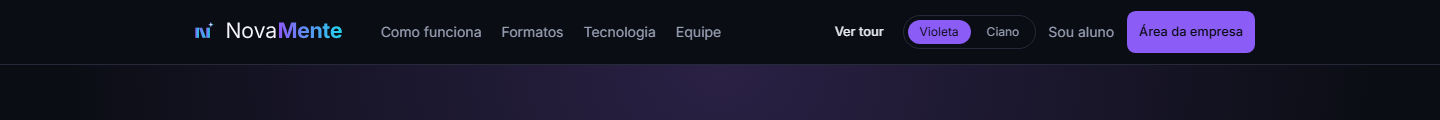
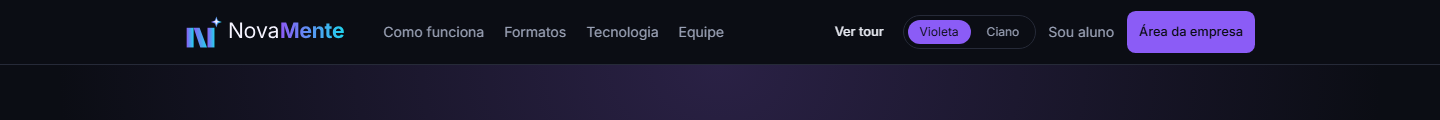
fix(brand): amplia o simbolo no lockup do header

Changed region(s): [[0.125, 0.175, 0.5, 0.4]]

diff --git a/frontend/src/components/layout/Logo.tsx b/frontend/src/components/layout/Logo.tsx
@@ -21,7 +21,7 @@ export function Logo({ href = ROTAS.landing, className }: LogoProps) {
       <img
         src="/brand/logo-header.svg"
         alt="NovaMente"
-        width={494}
+        width={502}
         height={120}
         className="h-8 w-auto sm:h-10"
       />
